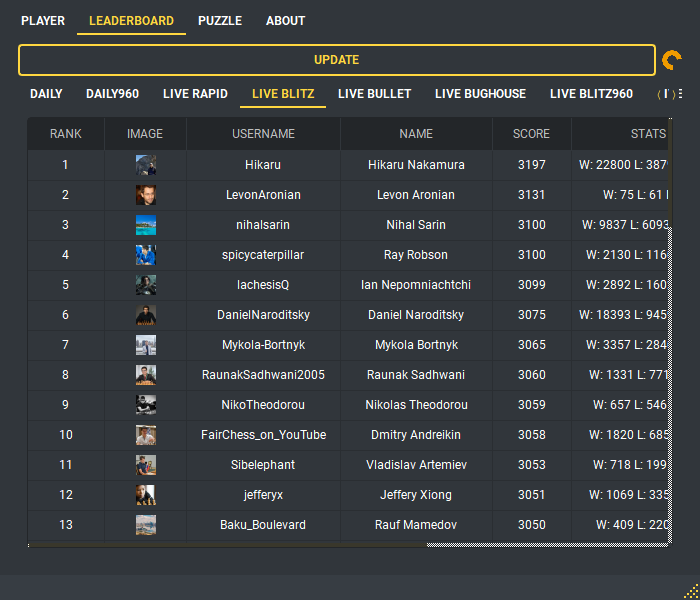
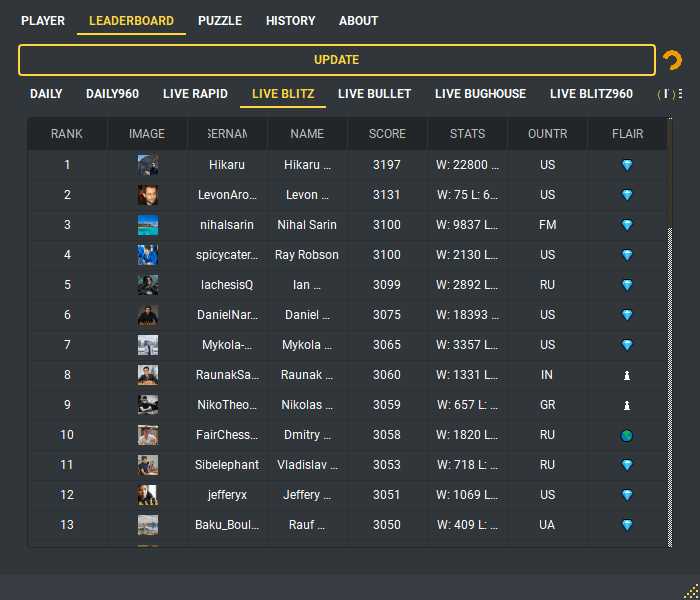
Updated readme.md and resources

diff --git a/README.md b/README.md
@@ -109,6 +109,8 @@ To see a player's history, head to the History tab and type their name. After th
 
 <p  align="center"><img  src="https://raw.githubusercontent.com/mgldz/Chess-Dot-Py/main/resources/s4.png"></p>
 
+<p  align="center"><img  src="https://raw.githubusercontent.com/mgldz/Chess-Dot-Py/main/resources/s5.png"></p>
+
 ## Modules used
 
 - [Chess.com](https://pypi.org/project/chess.com/ "Chess.com") - API Wrapper for Chess.com
